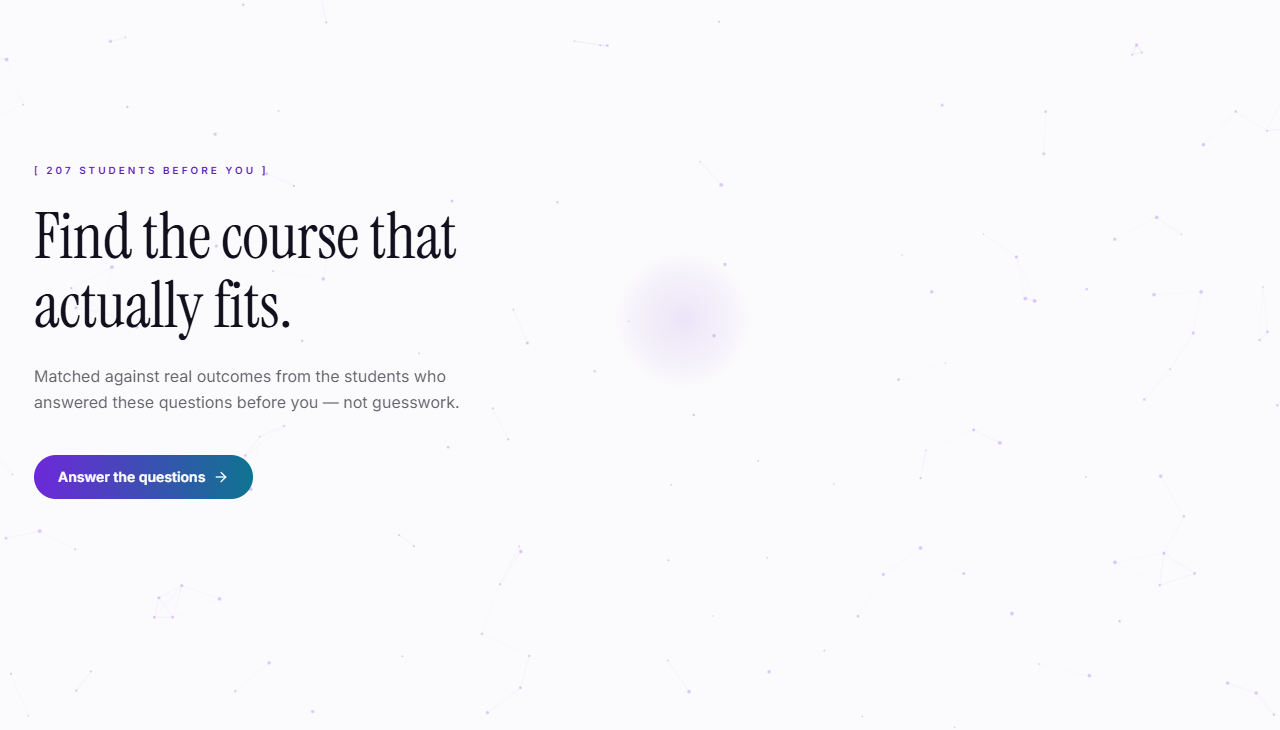
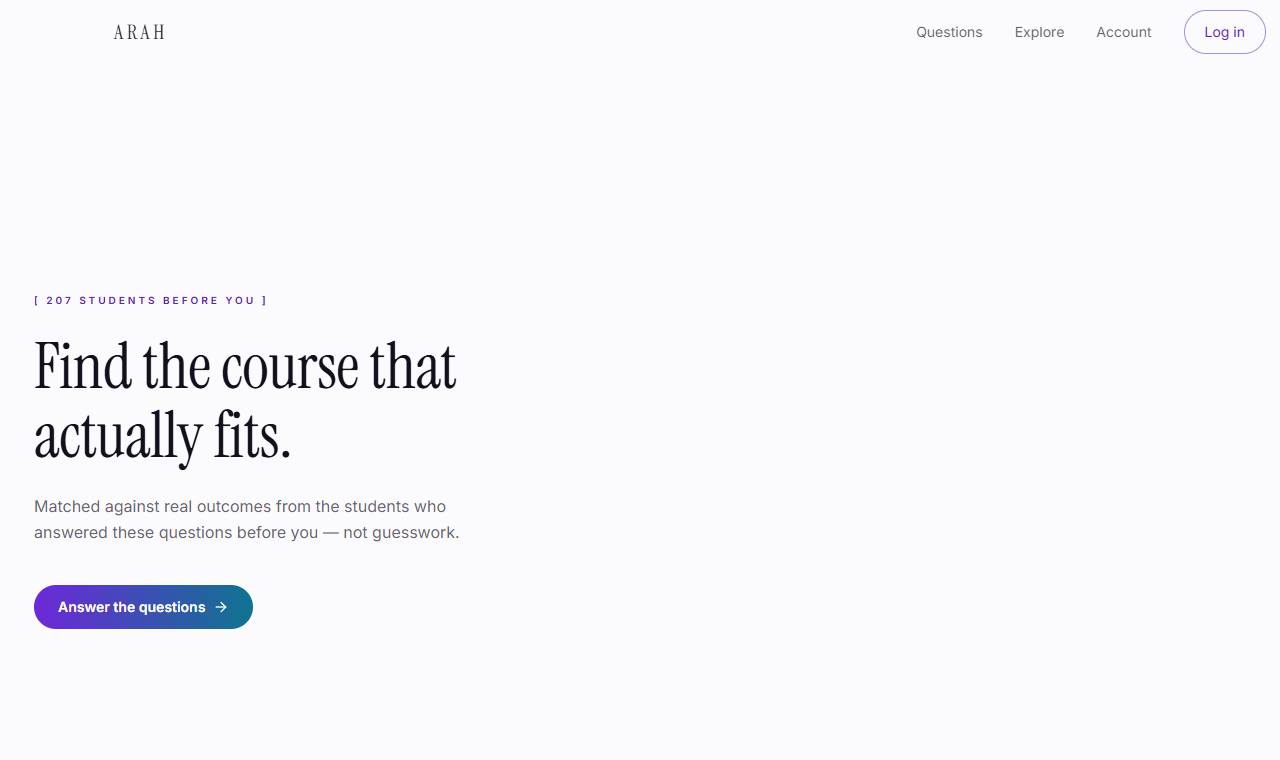
Re-shoot the deck screenshots against the deployed site
The removals are live, so the captures can come from the real thing again
rather than being cropped around what was about to disappear.

01-landing was cropped below the site header last time, because the header
still carried a Contribute link. It now shows the header in full, and as a
visitor sees it — captured signed out, so it reads "Log in" rather than
"Log out".

The admin captures are re-taken too. Their crops already excluded the
sidebar, so none of them was showing the removed Contributions entry, but
they were shot against the previous build and there is no reason to keep a
stale frame once a current one is free.

The commit count on the Quality slide stops saying "at handover" and
becomes the real count, now that the deck is generated from inside the
repo where `git rev-list --count HEAD` can answer for it.

diff --git a/decks/system-overview.js b/decks/system-overview.js
@@ -236,7 +236,7 @@ const worst = shortSat[shortSat.length - 1];
   });
 
   screenshot(s, {
-    file: '01-landing.crop.png', x: M + 5.63, y: 1.92, w: 6.0, ratio: 1280 / 730,
+    file: '01-landing.crop.png', x: M + 5.63, y: 1.92, w: 6.0, ratio: 1280 / 760,
     caption: 'arah-sand.vercel.app',
   });
 
@@ -890,7 +890,7 @@ const worst = shortSat[shortSat.length - 1];
   const counts = [
     ['359', 'JavaScript tests passing', VIOLET],
     ['36', 'Python tests passing', VIOLET_LT],
-    ['95', 'commits at handover', CYAN],
+    ['101', 'commits', CYAN],
     ['11', 'database migrations', CYAN_LT],
   ];
   const cw = 2.82, gap = 0.32;

diff --git a/decks/crop_shots.py b/decks/crop_shots.py
@@ -17,10 +17,7 @@ ASSETS = Path(__file__).resolve().parent / "assets"
 
 # (left, top, right, bottom) in the 1440x900 capture.
 CROPS = {
-    # Cropped below the site header on purpose: the captured header still
-    # carries a "Contribute" link, and that feature was removed. Re-capture
-    # after the next deploy if the header is wanted back in frame.
-    "01-landing": (30, 130, 1310, 860),
+    "01-landing": (30, 0, 1310, 760),
     "02-questions": (300, 190, 1320, 860),
     "04-results-top": (110, 180, 1040, 850),
     "05-results-cards": (140, 60, 1010, 670),

diff --git a/decks/README.md b/decks/README.md
@@ -73,7 +73,7 @@ shipped system. When any of these change, the deck changes with them:
 | Findings | 71.5% / 63.7% | `python ml/measure_paths.py` |
 | Quality | JavaScript tests passing | `npm test` |
 | Quality | Python tests passing | `python -m pytest` |
-| Quality | commits at handover | `git rev-list --count HEAD` |
+| Quality | commits | `git rev-list --count HEAD` |
 | Quality, Architecture | migration count | `ls supabase/migrations/*.sql` |
 | Descriptive analysis ×3 | every figure and most of the prose | `python decks/describe_corpus.py` |
 | Throughout | 207 alumni | rows in `ml/data/survey.csv` |
@@ -89,8 +89,8 @@ and accuracy features were removed along with their suites — re-run `npm test`
 rather than assuming.
 
 **The commit count cannot be re-derived from the handover folder**, which is
-not a git checkout. The slide therefore says "commits at handover" rather than
-implying a live count.
+not a git checkout. Run `git rev-list --count HEAD` in the working repo
+instead — the delivery copy carries the number, not the means to check it.
 
 A deck quoting a stale accuracy number in a client meeting is worse than no
 deck. If you are unsure whether a figure is current, re-run the command in the
